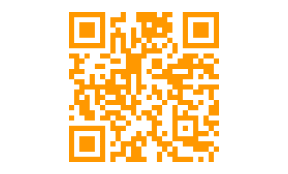
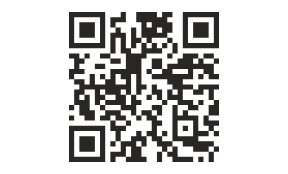
qr

Changed region(s): [[0.2188, 0.0575, 0.7812, 0.9483]]

diff --git a/src/components/MenuViewer.jsx b/src/components/MenuViewer.jsx
@@ -106,7 +106,8 @@ const MenuViewer = ({ restaurantId }) => {
             <button
               key={section}
               onClick={() => scrollToSection(section)}
-              className={`px-4 py-2 text-sm font-semibold rounded-lg transition-all duration-200 shadow hover:scale-110 hover:bg-opacity-90 hover:shadow-lg ${activeSection === section ? "bg-["+colors.primary+"] text-white" : "bg-gray-200 text-gray-700"}`}
+              className="px-4 py-2 text-sm font-semibold rounded-lg transition-all duration-200 shadow hover:scale-110 hover:bg-opacity-90 hover:shadow-lg"
+              style={{ backgroundColor: activeSection === section ? colors.primary : "#e5e7eb", color: activeSection === section ? "white" : "#374151" }}
             >
               {section}
             </button>
@@ -114,27 +115,28 @@ const MenuViewer = ({ restaurantId }) => {
         </nav>
         {Object.entries(menuSections).map(([section, items]) => (
           <div key={section} ref={(el) => (sectionRefs.current[section] = el)} className="mb-12">
-            <h2 className="text-3xl font-extrabold text-gray-800 mb-6 border-b-4 border-indigo-500 pb-2 transition-all duration-300 hover:scale-105 hover:text-["+colors.primary+"]">{section}</h2>
+            <h2 className="text-3xl font-extrabold text-gray-800 mb-6 border-b-4 pb-2 transition-all duration-300 hover:scale-105"
+              style={{ borderColor: colors.primary, color: colors.primary }}>{section}</h2>
             <div className="grid grid-cols-1 sm:grid-cols-2 lg:grid-cols-3 gap-6">
               {menuItems.filter(item => item.category === section).map(item => (
                 <div key={item.id} className="bg-white rounded-xl shadow-lg p-5 transition-all hover:scale-105 hover:shadow-xl cursor-pointer" onClick={() => setSelectedItem(item)}>
                   <img src={item.image_url} alt={item.name} className="w-full h-40 object-cover rounded-md" />
                   <h3 className="text-lg font-semibold mt-4 text-gray-900">{item.name}</h3>
-                  <button className="mt-2 px-4 py-2 w-full rounded-lg text-white transition-all duration-200 hover:scale-105 shadow-lg" style={{ backgroundColor: colors.primary }} onClick={(e) => { e.stopPropagation(); addToCart(item); }}>Añadir al pedido</button>
+                  <button className="mt-2 px-4 py-2 w-full rounded-lg text-white transition-all duration-200 hover:scale-105 shadow-lg"
+                    style={{ backgroundColor: colors.primary }}
+                    onClick={(e) => { e.stopPropagation(); addToCart(item); }}>Añadir al pedido</button>
                 </div>
               ))}
             </div>
           </div>
         ))}
       </div>
-      <button onClick={scrollToTop} className="fixed bottom-6 right-6 bg-gray-800 text-white p-3 rounded-full shadow-lg hover:bg-gray-900 transition-all">
-        ⬆
-      </button>
     </div>
   );
 };
 
 export default MenuViewer;
+
 
 
 

diff --git a/src/components/ThreeDViewer.jsx b/src/components/ThreeDViewer.jsx
@@ -93,15 +93,16 @@ const ThreeDViewer = ({
     );
 
     // Controles para modo no-AR
-    let controls;
-    if (!enableAr) {
-      controls = new OrbitControls(camera, renderer.domElement);
+    const setupControls = () => {
+      const controls = new OrbitControls(camera, renderer.domElement);
       controlsRef.current = controls;
       controls.enableDamping = true;
       controls.dampingFactor = 0.05;
       controls.minDistance = 1;
       controls.maxDistance = 10;
-    }
+      controls.enabled = !enableAr; // Desactiva en AR
+    };
+    if (!enableAr) setupControls();
 
     // Soporte AR
     const startAR = async () => {
@@ -110,37 +111,45 @@ const ThreeDViewer = ({
         return;
       }
 
-      renderer.xr.enabled = true;
       try {
+        renderer.xr.enabled = true;
         const session = await navigator.xr.requestSession("immersive-ar", {
+          requiredFeatures: ["local-floor"], // Asegura posición relativa al suelo
           optionalFeatures: ["hit-test", "dom-overlay"],
           domOverlay: { root: document.body },
         });
         arSessionRef.current = session;
         renderer.xr.setSession(session);
 
-        // Manejo de fin de sesión AR
+        // Desactiva controles en AR
+        if (controlsRef.current) controlsRef.current.enabled = false;
+
+        console.log("Sesión AR iniciada con éxito.");
+
+        // Manejo de fin de sesión
         session.addEventListener("end", () => {
+          console.log("Sesión AR terminada.");
           arSessionRef.current = null;
           renderer.xr.enabled = false;
-          if (controlsRef.current) controlsRef.current.enabled = true; // Reactiva controles si existen
+          if (controlsRef.current) controlsRef.current.enabled = true;
           setTimeout(() => {
             window.scrollTo({
-              top: mount.offsetTop - 50, // Ajusta para centrar el visor
+              top: mount.offsetTop - 50,
               behavior: "smooth",
             });
           }, 100);
         });
       } catch (err) {
         console.error("Error iniciando AR:", err);
-        onError("No se pudo iniciar AR: " + err.message);
+        onError(`No se pudo iniciar AR: ${err.message}. Asegúrate de que WebXR esté habilitado.`);
       }
     };
 
+    // Manejo de AR basado en enableAr
     if (enableAr) {
       startAR();
     } else if (arSessionRef.current) {
-      arSessionRef.current.end(); // Termina la sesión AR si se desactiva
+      arSessionRef.current.end();
     }
 
     // Redimensionamiento
@@ -157,7 +166,7 @@ const ThreeDViewer = ({
     // Animación
     const animate = () => {
       animationFrameId.current = requestAnimationFrame(animate);
-      if (!enableAr && controls) controls.update();
+      if (!enableAr && controlsRef.current) controlsRef.current.update();
       renderer.render(scene, camera);
     };
     animate();

diff --git a/src/components/VRSection.jsx b/src/components/VRSection.jsx
@@ -73,12 +73,16 @@ const VRSection = React.memo(() => {
         try {
           const supported = await navigator.xr.isSessionSupported("immersive-ar");
           setIsArSupported(supported);
+          if (!supported) {
+            console.warn("AR no soportado en este dispositivo.");
+          }
         } catch (err) {
           console.error("Error al verificar soporte AR:", err);
           setIsArSupported(false);
         }
       } else {
         setIsArSupported(false);
+        console.warn("WebXR no disponible en este navegador.");
       }
     };
     checkArSupport();
@@ -93,9 +97,12 @@ const VRSection = React.memo(() => {
 
   const handleToggleAr = useCallback((e) => {
     e.preventDefault();
-    e.stopPropagation(); // Evita propagación que pueda causar redirecciones
+    e.stopPropagation();
     if (isArSupported) {
-      setIsArMode((prev) => !prev);
+      setIsArMode((prev) => {
+        console.log("Modo AR cambiado a:", !prev);
+        return !prev;
+      });
     } else {
       alert("AR no soportado. Usa Chrome en Android o Safari en iOS con WebXR habilitado.");
     }
@@ -237,7 +244,7 @@ const VRSection = React.memo(() => {
               ¡Escanea para ver la carta en AR!
             </motion.p>
             <img
-              src="/qr/qr-carta-digital.png" // Ajusta según la ruta de tu QR
+              src="/qr/qr-carta-digital.png" // Asegúrate de que el QR sea negro sobre blanco
               alt="QR para Carta Digital"
               className="w-48 h-48 object-contain rounded-xl shadow-lg"
             />
